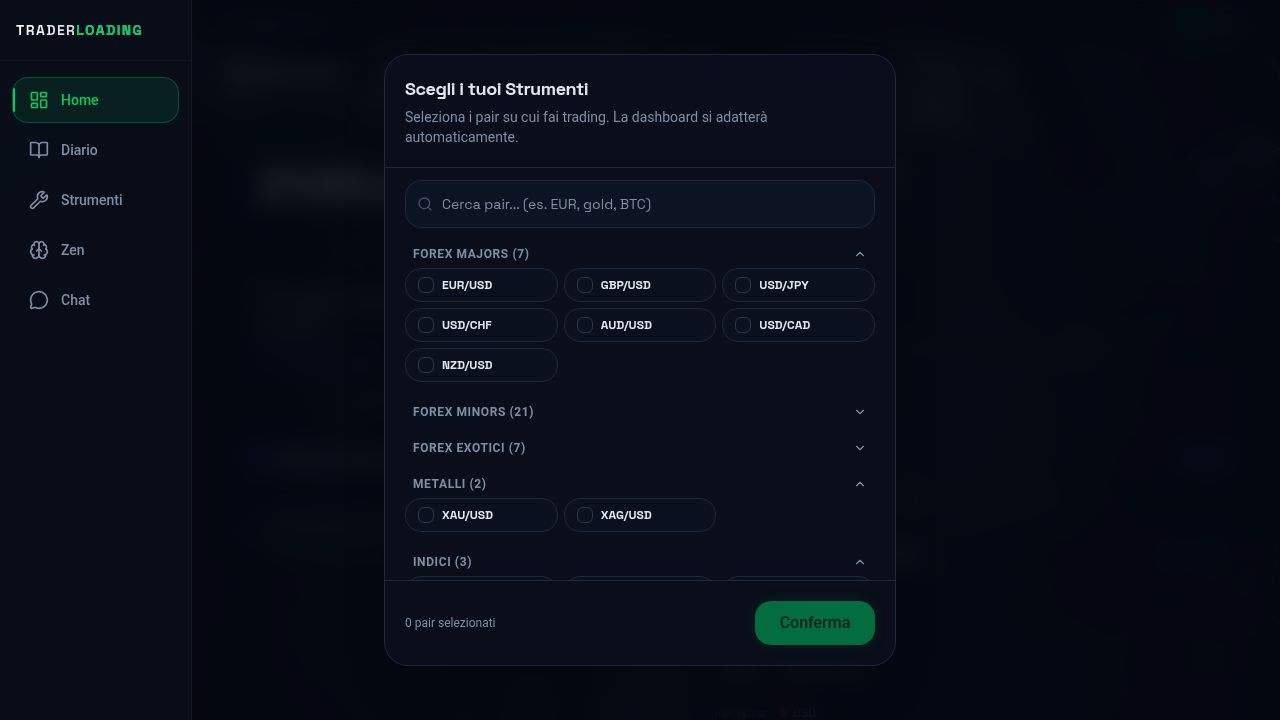
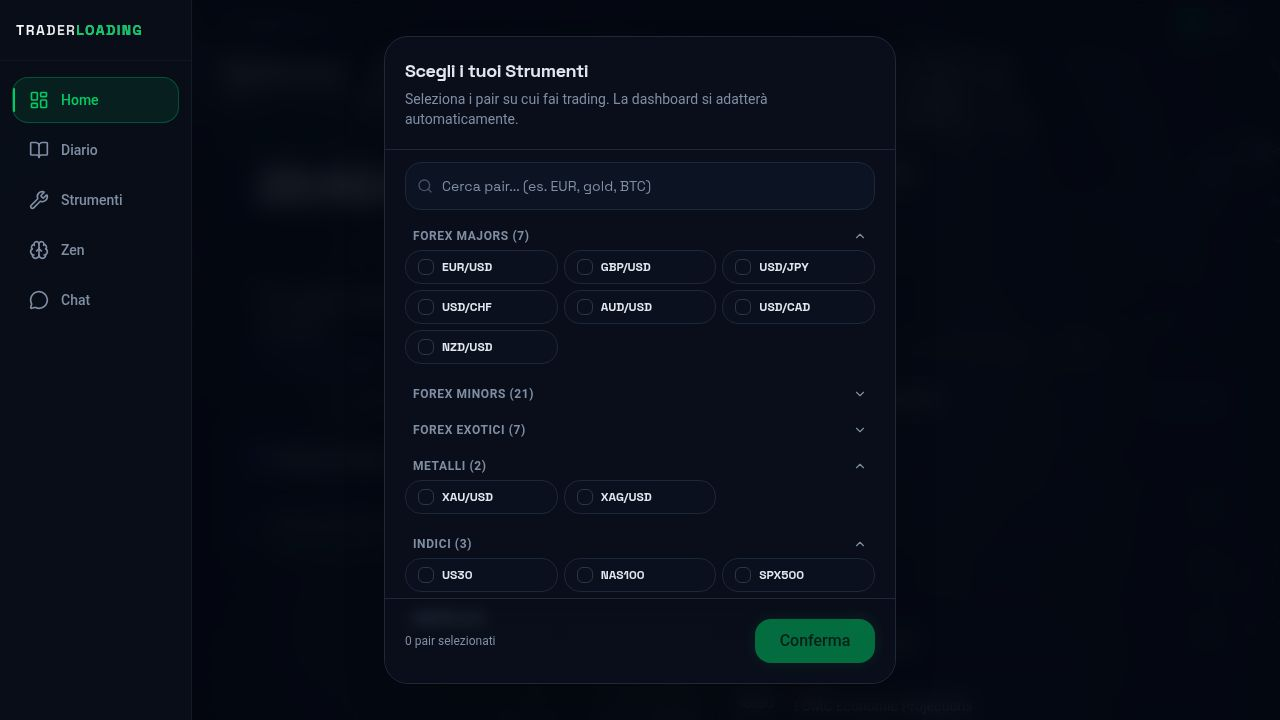
Increase pair selection modal list padding-bottom to pb-24 for better footer visibility

diff --git a/artifacts/trader-dashboard/src/components/PairSelectionModal.tsx b/artifacts/trader-dashboard/src/components/PairSelectionModal.tsx
@@ -138,7 +138,7 @@ export function PairSelectionModal({ open, onConfirm, initialPairs = [], dismiss
             </div>
           </div>
 
-          <div className="flex-1 overflow-y-auto px-5 py-3 space-y-2 min-h-0 pb-20">
+          <div className="flex-1 overflow-y-auto px-5 py-3 space-y-2 min-h-0 pb-24">
             {Array.from(grouped.entries()).map(([category, pairs]) => {
               const isExpanded = search.trim() !== "" || expandedCategories[category];
               return (